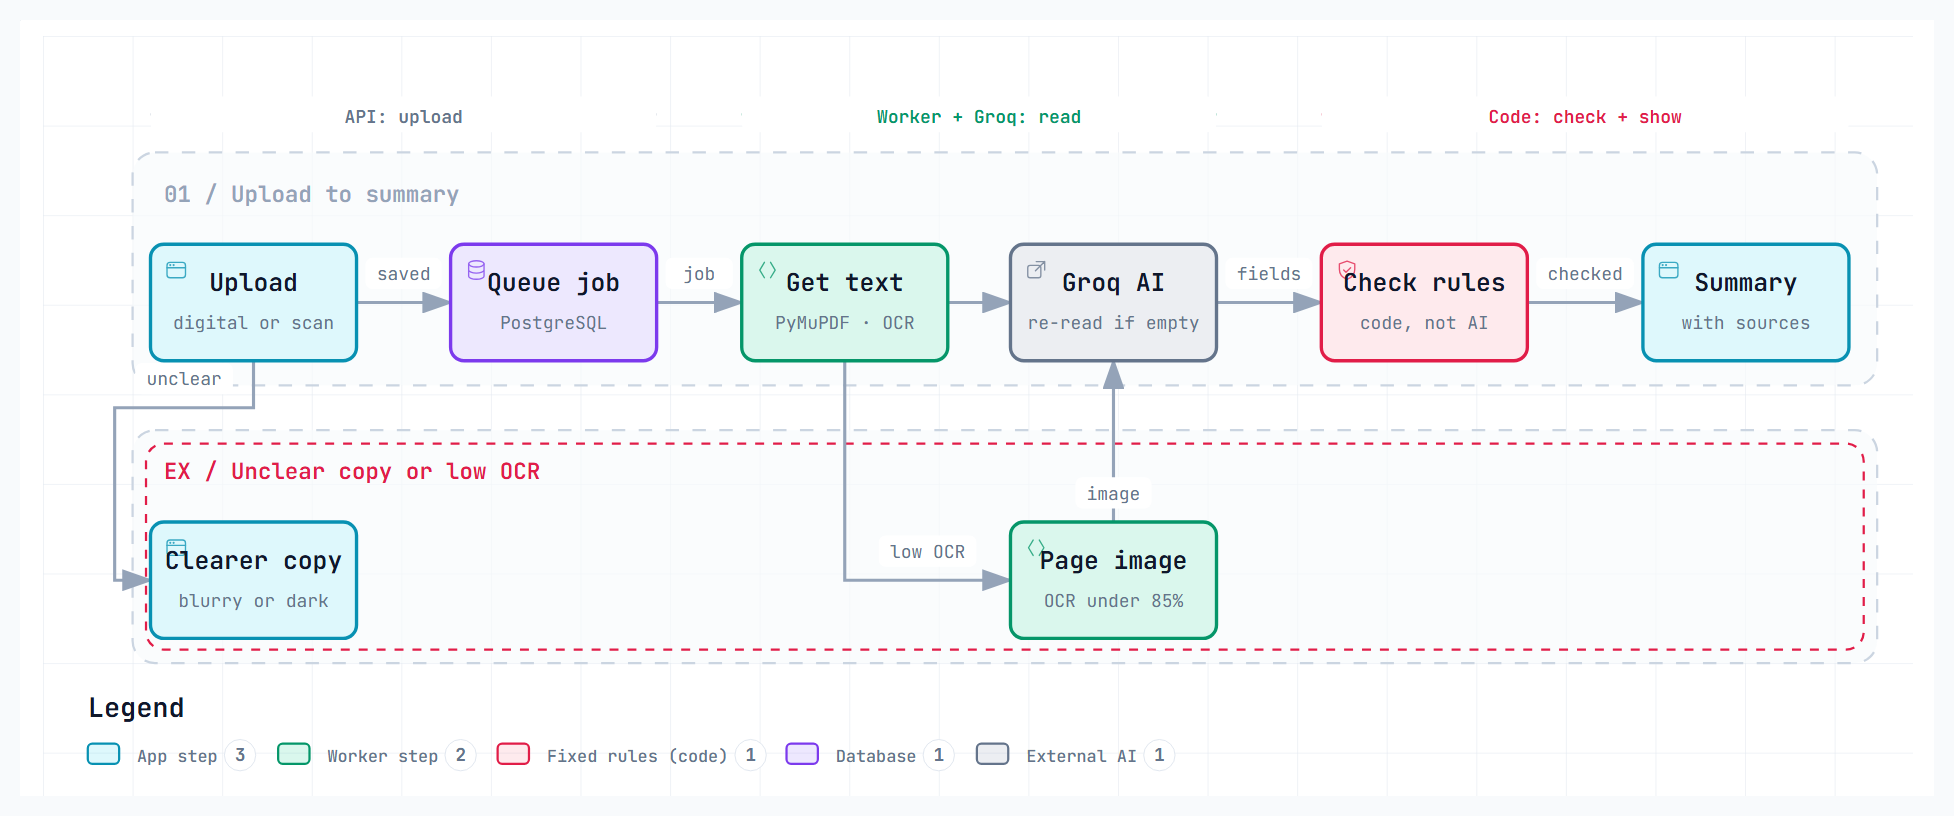
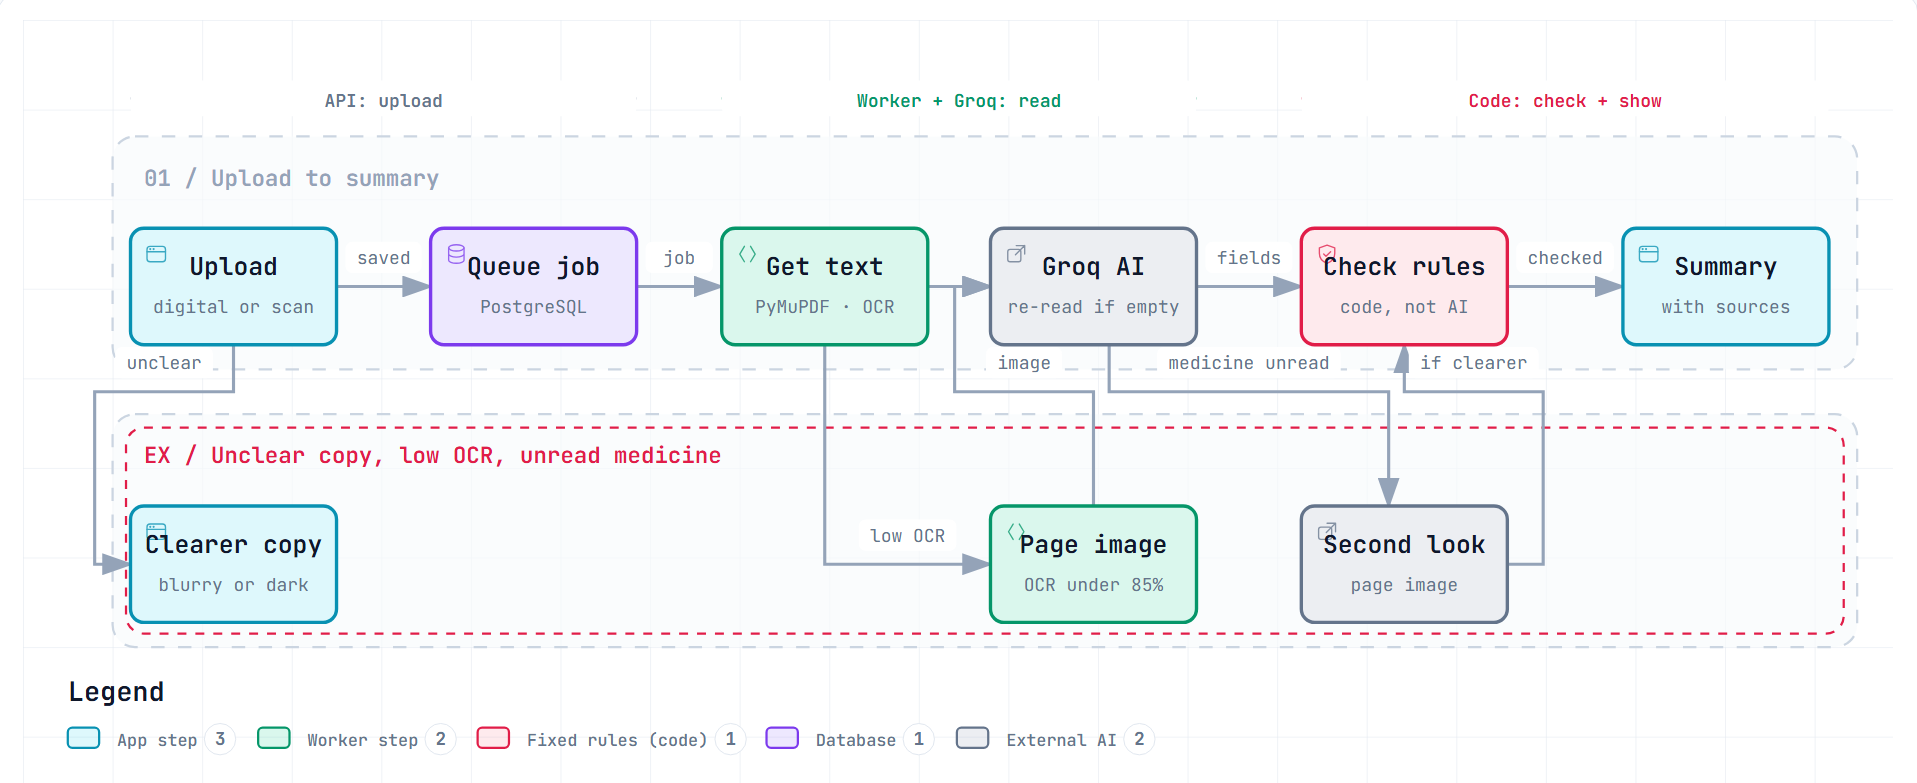
Pipeline diagram: show the medicine second look
Adds the step where an incomplete medicine read from OCR text is read again from the page image,
and updates the development record's caption.

diff --git a/docs/healthcare_development.html b/docs/healthcare_development.html
@@ -278,7 +278,7 @@
   <div class="section-head"><h2 id="s3-title">3. Document processing pipeline</h2><span class="badge done">Built</span></div>
   <figure>
     <img src="architecture/extraction-pipeline.png" alt="How a document is read: text from PyMuPDF or Tesseract OCR, vision fallback for low-confidence pages, Groq extraction with a strict schema, deterministic validation, rule-based summaries" loading="lazy">
-    <figcaption>How a document is read (source: <a href="architecture/extraction-pipeline.json">architecture/extraction-pipeline.json</a>). The medicine "second look" below was added after this diagram.</figcaption>
+    <figcaption>How a document is read (source: <a href="architecture/extraction-pipeline.json">architecture/extraction-pipeline.json</a>). It includes the medicine "second look": when a medicine read from OCR text is incomplete, the page image is read again.</figcaption>
   </figure>
   <div class="flow" role="img" aria-label="Pipeline with branches">
     <div class="step"><b>PDF or photo</b>user picks report type and digital/scanned</div><span class="arrow">→</span>
